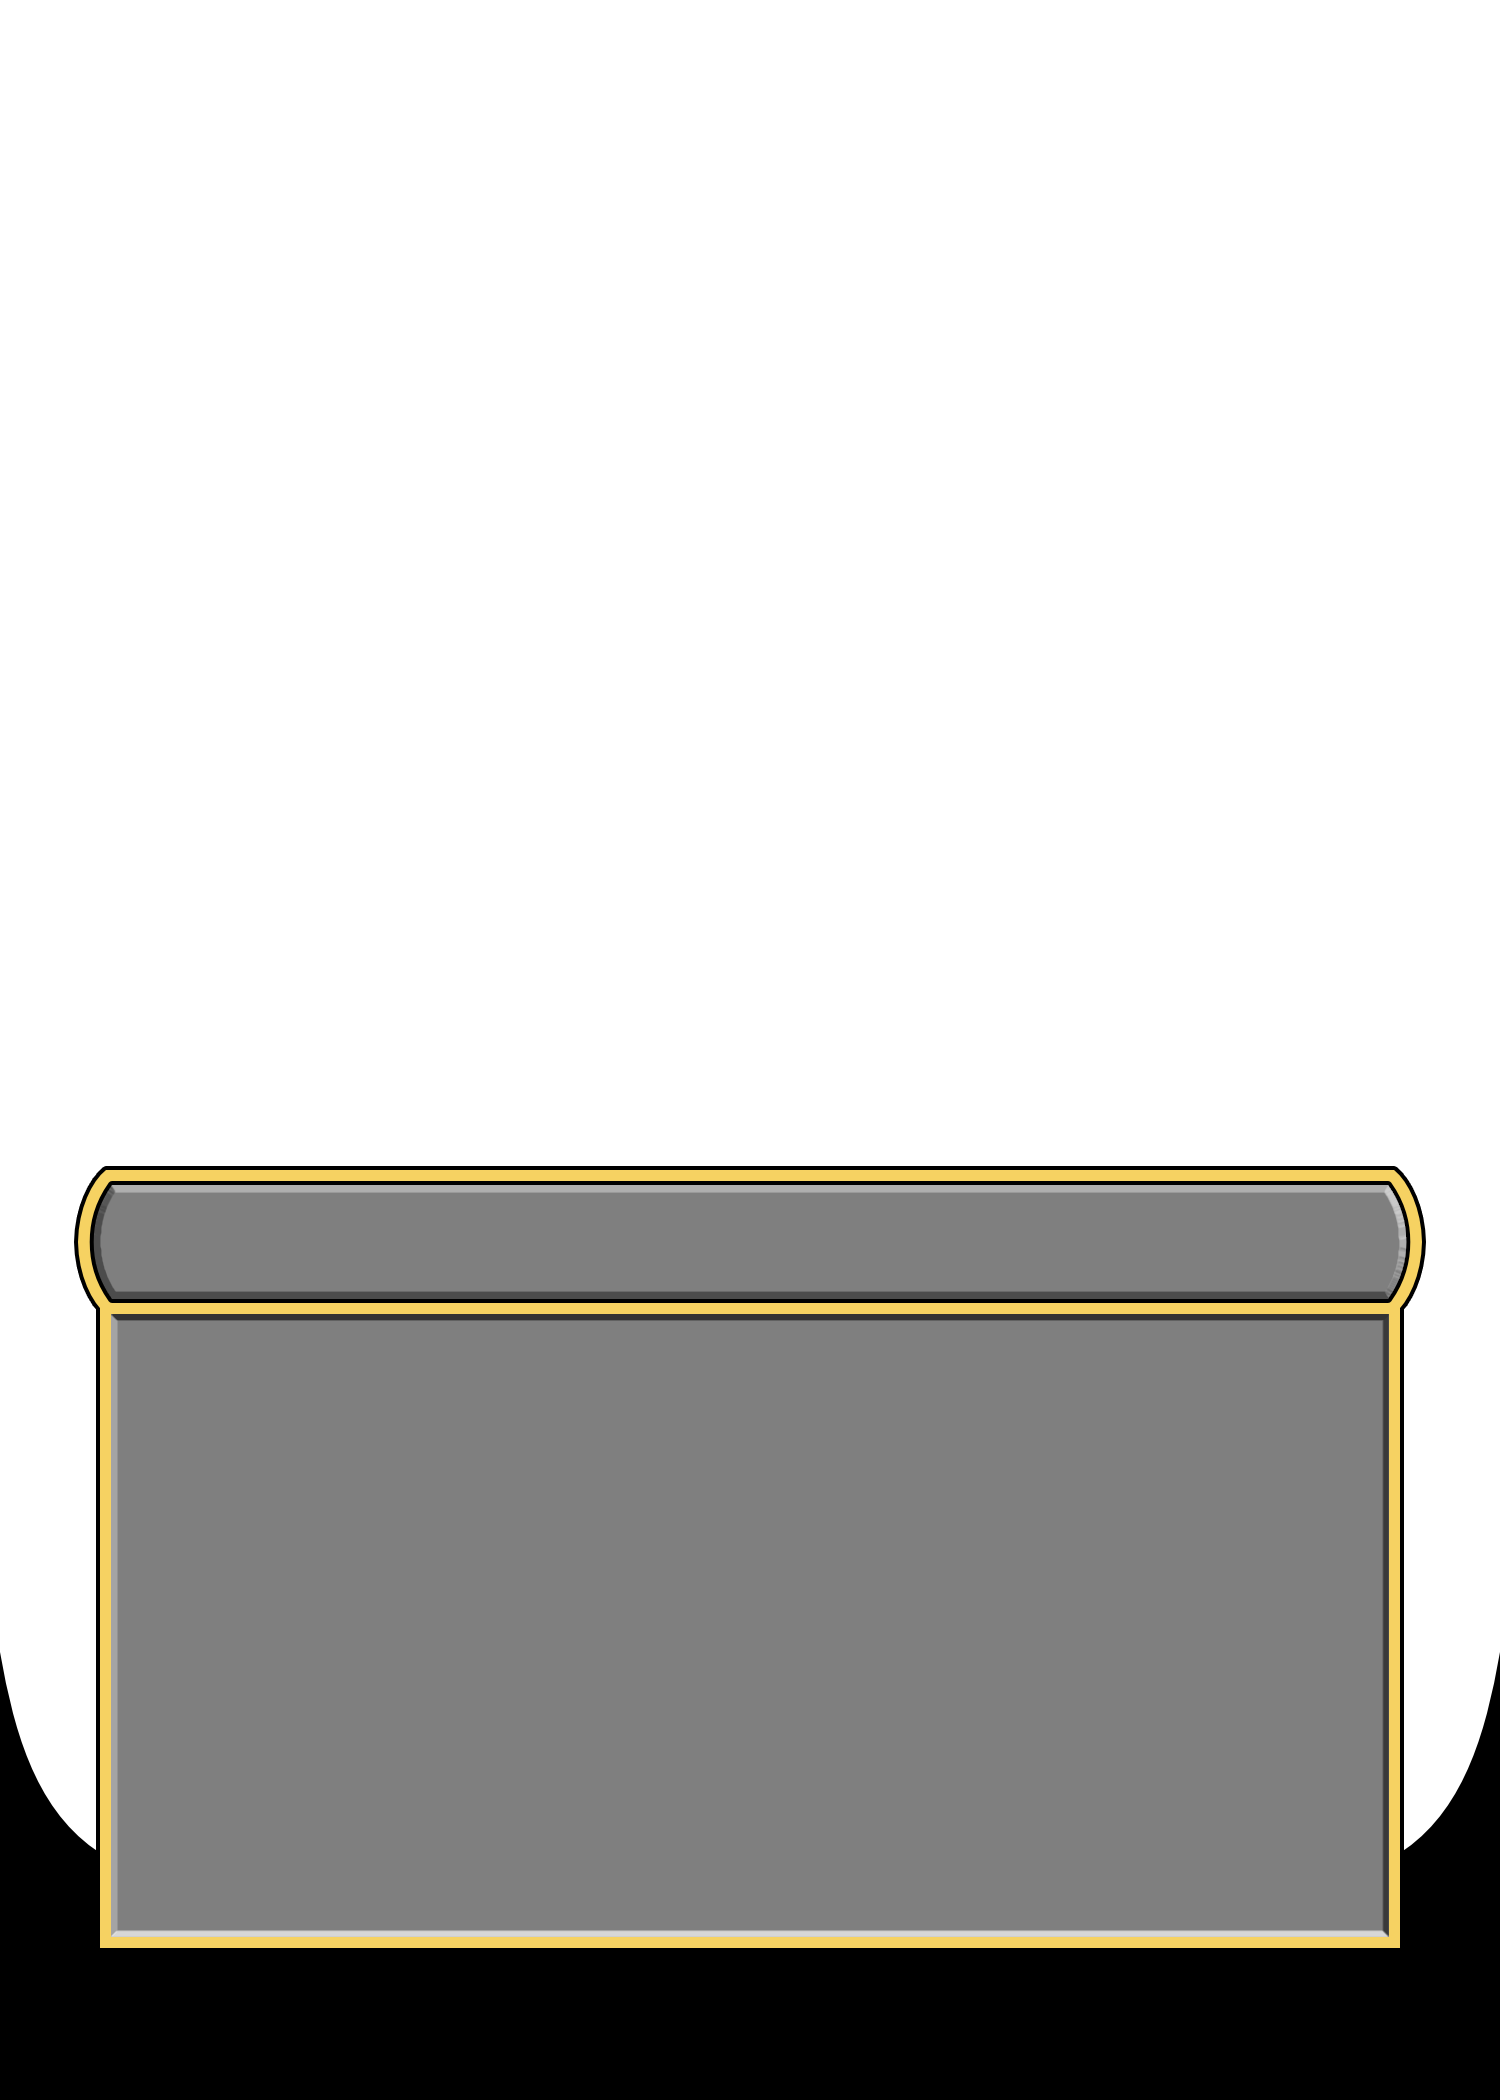
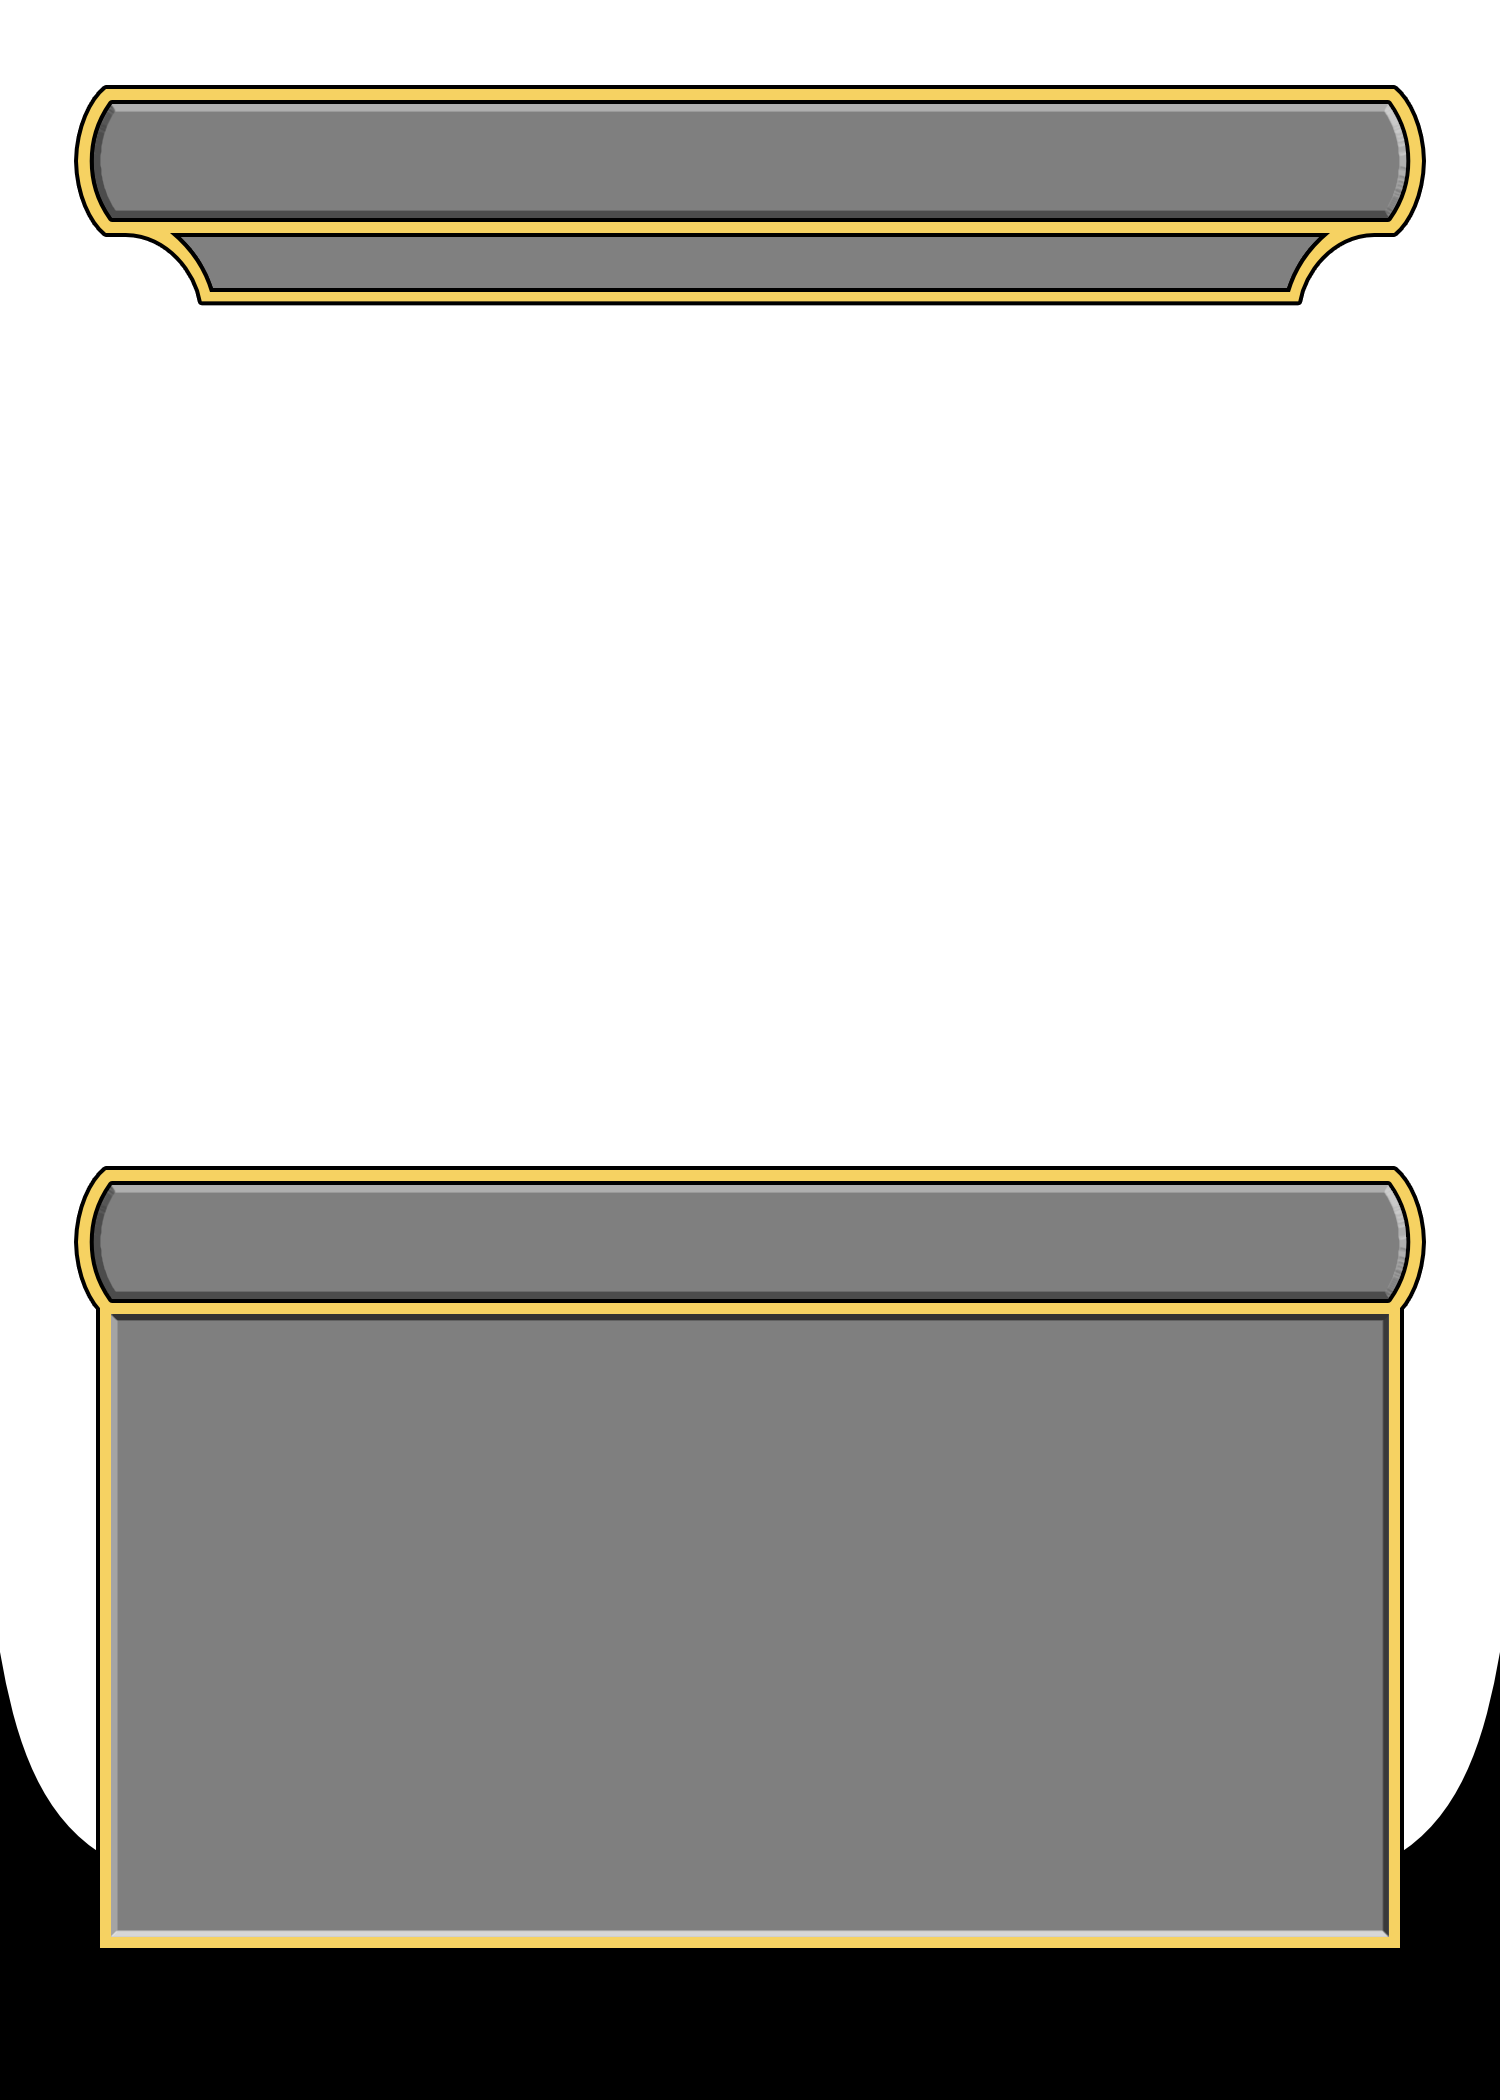
Basic Frames Updated

Changed region(s): [[0.0307, 0.031, 0.9507, 0.1548]]

diff --git a/index.html b/index.html
@@ -52,10 +52,10 @@ function updateFrameColor() {
  } else {
   cardColor = colors.toUpperCase();
  }
+
  if (document.querySelector("styler :checked").getAttribute("value") == "0") {
-  document.querySelector("#pdback").style.backgroundImage = 'url("data/images/m15/PT/' + cardColor + '.png")';
-  document.querySelector("border").style.backgroundImage = 'url("data/images/m15/Basic/' + cardColor + '.png")';
-  document.querySelector("titl").style.backgroundImage = "none";
+  document.querySelector("#pdback").style.backgroundImage = 'url("https://raw.githubusercontent.com/danielrwallentine/Card-Summoner/refs/heads/master/data/images/m15/PT/' + cardColor + '.png")';
+  document.querySelector("border").style.backgroundImage = 'url("https://raw.githubusercontent.com/danielrwallentine/Card-Summoner/refs/heads/master/data/images/m15/Basic/' + cardColor + '.png")';
   document.querySelector("#cardName").style.color = "black";
   document.querySelector("#nickname").style.color = "transparent";
   document.querySelector("#typeLine").style.color = "black";
@@ -63,14 +63,12 @@ function updateFrameColor() {
   document.querySelector("#pd").style.color = "black";
   color_state = 0;
  } else if (document.querySelector("styler :checked").getAttribute("value") == "1") {
-  document.querySelector("#pdback").style.backgroundImage = 'url("https://raw.githubusercontent.com/joshbirnholz/cardconjurer/refs/heads/master/data/images/cardImages/m15/m15NicknamePT' + cardColor + '.png")';
-  document.querySelector("border").style.backgroundImage = 'url("https://raw.githubusercontent.com/joshbirnholz/cardconjurer/refs/heads/master/data/images/cardImages/m15/genericShowcase/m15GenericShowcaseFrame' + cardColor + '.png")';
-  document.querySelector("titl").style.backgroundImage = "none";
+  document.querySelector("#pdback").style.backgroundImage = 'url("https://raw.githubusercontent.com/danielrwallentine/Card-Summoner/refs/heads/master/data/images/m15/PT/' + cardColor + '.png")';
+  document.querySelector("border").style.backgroundImage = 'url("https://raw.githubusercontent.com/danielrwallentine/Card-Summoner/refs/heads/master/data/images/m15/Showcase/' + cardColor + '.png")';
   document.querySelector("#nickname").style.color = "transparent";
  } else if (document.querySelector("styler :checked").getAttribute("value") == "2") {
-  document.querySelector("#pdback").style.backgroundImage = 'url("https://raw.githubusercontent.com/joshbirnholz/cardconjurer/refs/heads/master/data/images/cardImages/m15/m15NicknamePT' + cardColor + '.png")';
-  document.querySelector("border").style.backgroundImage = 'url("https://raw.githubusercontent.com/joshbirnholz/cardconjurer/refs/heads/master/data/images/cardImages/m15/m15NicknameFrame' + cardColor + '.png")';
-  document.querySelector("titl").style.backgroundImage = 'url("https://raw.githubusercontent.com/joshbirnholz/cardconjurer/refs/heads/master/data/images/cardImages/m15/m15NicknameTitle' + cardColor + '.png")';
+  document.querySelector("#pdback").style.backgroundImage = 'url("https://raw.githubusercontent.com/danielrwallentine/Card-Summoner/refs/heads/master/data/images/m15/PT/' + cardColor + '.png")';
+  document.querySelector("border").style.backgroundImage = 'url("https://raw.githubusercontent.com/danielrwallentine/Card-Summoner/refs/heads/master/data/images/m15/Nickname/' + cardColor + '.png")';
   document.querySelector("#cardName").style.color = "white";
   document.querySelector("#nickname").style.color = "white";
   document.querySelector("#typeLine").style.color = "white";
@@ -78,7 +76,6 @@ function updateFrameColor() {
   document.querySelector("#pd").style.color = "white";
   color_state = 3;
  } else if (document.querySelector("styler :checked").getAttribute("value") == "3") {
-  document.querySelector("crownbd").style.display = "none";
   document.querySelector("#pdback").style.display = "none";
  }
 }
@@ -90,19 +87,15 @@ function updateBorderByType(typeLine) {
   document.querySelector("#pdback").hidden = true;
  }
  if (typeLine.innerHTML.includes("Legendary")) {
-  document.querySelector("crownbd").hidden = false;
   document.querySelector("titl").hidden = true;
  } else if (document.querySelector("styler :checked").getAttribute("value") == "2") {
   document.querySelector("titl").hidden = false;
-  document.querySelector("crownbd").hidden = true;
  } else {
-  document.querySelector("crownbd").hidden = true;
   document.querySelector("titl").hidden = true;
  }
 }
 
 function custom() {
- document.querySelector("crownbd").style.display = "block";
  document.querySelector("#pdback").style.display = "block";
  updateFrameColor()
  updateBorderByType(document.querySelector("#typeLine"))
@@ -254,56 +247,7 @@ function indtast(key) {
     background-position: center;
     background-repeat: no-repeat;
     background-size: cover;
-    background-image:url("https://raw.githubusercontent.com/joshbirnholz/cardconjurer/refs/heads/master/data/images/cardImages/m15/m15FrameA.png");
-  }
-  titl {
-    position:absolute;
-    top:20px;
-    left:18px;
-    display:block;
-    height:56px;
-    width:342px;
-    background-position: center;
-    background-repeat: no-repeat;
-    background-size: cover;
-    background-image:url("https://raw.githubusercontent.com/joshbirnholz/cardconjurer/refs/heads/master/data/images/cardImages/m15/m15NicknameTitleA.png");
-  }
-  crownbd {
-    display:block;
-    position:absolute;
-    border-radius:15px;
-    top:0px;
-    left:0px;
-    height:527px;
-    width:378px;
-    background-position: center;
-    background-repeat: no-repeat;
-    background-size: cover;
-    background-image:url("https://raw.githubusercontent.com/joshbirnholz/cardconjurer/refs/heads/master/data/images/cardImages/m15/m15MaskBorderSliverCrown.png");
-  }
-  crown {
-    display:block;
-    position:absolute;
-    top:9px;
-    left:10px;
-    height:88.48px;
-    width:358px;
-    background-position: center;
-    background-repeat: no-repeat;
-    background-size: cover;
-    background-image:url("https://raw.githubusercontent.com/joshbirnholz/cardconjurer/refs/heads/master/data/images/cardImages/m15/m15CrownA.png");
-  }
-  crownout {
-    display:block;
-    position:absolute;
-    top:8px;
-    left:11.75px;
-    height:56px;
-    width:355px;
-    background-position: center;
-    background-repeat: no-repeat;
-    background-size: cover;
-    background-image:url("https://raw.githubusercontent.com/joshbirnholz/cardconjurer/refs/heads/master/data/images/cardImages/m15/m15CrownFloatingOutline.png");
+    background-image:url("https://raw.githubusercontent.com/danielrwallentine/Card-Summoner/refs/heads/master/data/images/m15/Basic/A.png");
   }
   collection {
     display:block;
@@ -528,16 +472,11 @@ function indtast(key) {
   <div id="ach">
     <background>
       <border>
-        <titl hidden></titl>
-        <crownbd hidden>
-          <crown></crown>
-          <crownout></crownout>
-        </crownbd>
         <box id="cardName" contenteditable="true" placeholder="Card Name"></box>
         <box id="nickname" contenteditable="true" placeholder="True Name"></box>
         <box id="cardCost"></box>
         <box id="pictureFrame" onclick="loadImage();"></box>
-        <box id="typeLine" onblur="updateBorderByType(this);" contenteditable="true" placeholder="Card Type">Creature ー Human</box>
+        <box id="typeLine" onblur="updateBorderByType(this);" contenteditable="true" placeholder="Card Type">Creature - Human</box>
         <svg id="icon" fill="orange" stroke="black" stroke-width="40" xmlns="http://www.w3.org/2000/svg" version="1.0" viewBox="600 400 1000 900"><path d="M1000 552.7c-100.7 2.7-201.4 18.7-232.6 36.8-5.9 3.5-6.8 6.3-6.1 20.3.8 17.1 3.7 32 22.6 115.7 12 53.2 21 99.4 26.1 134.2 3.3 22.6 7 55.2 7 61.8 0 3.3.6 4.5 3.5 7l3.5 3 .6 18c.7 19.2 0 23.3-3.6 24.2-1.8.5-2 1.4-2 8.2 0 11.6-1.9 34.2-4 48.1-1 6.8-1.8 12.6-1.7 12.7.5.4 56.1 8.3 72.2 10.2 48.4 5.8 91.3 8.3 143.5 8.3 65.9.1 111.4-3.5 183.5-14.7 31.7-4.9 78.6-13.4 79.8-14.5.4-.4-.7-5.8-2.6-12.1-4-13.2-7.1-26.4-9.6-41-1.5-9.1-2-10.4-3.9-10.7-1.1-.2-2.5-.9-3-1.5-1.6-2-3.1-11.1-4.4-26.4l-1.2-14.6 2.7-2.3 2.7-2.3.4-40.3c.7-70.1 6.1-115.9 27-230.8 9.5-52 10-58.2 5.2-61.3-5.8-3.8-30.9-11.1-53.6-15.6-54.7-10.8-122.4-17.8-194-20.1-28.8-.9-35.1-1-58-.3m-39.7 310.7c18.4 5.5 29.6 12.2 42.7 25.6 17.3 17.6 25.3 37.3 25.4 62 0 24.7-8 44.6-25.3 62.3-29.3 30.3-74 37.7-112.2 18.7-54.1-26.8-67.7-97.2-27.3-140.8 14.6-15.8 30.2-24.7 52.5-29.7 4.5-1 10.7-1.4 20.9-1.1 12.1.3 16 .8 23.3 3m221.5-1.8c9.8 2 23.4 7.1 30.7 11.5 25.8 15.4 42.7 42.6 45 72.1 1.3 16.4-3.4 36.2-12.3 51.3-5.6 9.6-21.9 26.4-30.4 31.3-19.4 11.4-40 16.2-60.7 14.2-60.4-6-99.3-64-80.2-119.7 4.1-12 10.5-22.5 19.4-31.9 14.8-15.7 29.9-24.1 51.8-28.9 8.9-1.9 27.3-1.9 36.7.1m-122.5 79.3c4.7 3.2 4.7 3.3 4.7 8.9 0 6.4-.6 7.6-3.6 8.6-1.4.4-2.7-.1-4.4-1.9-3.8-4.1-8.2-4.3-14.2-.6-7.2 4.5-8.8 3.7-8.8-4.3 0-7 .8-8.6 6.5-12.1 5.7-3.6 13.2-3.1 19.8 1.4"/><path d="M924.2 879c-19.6 2.7-38.5 13.4-49.7 28.2-20.5 27-20.3 62.8.5 88.5 20.3 25.1 54.7 34.5 85.5 23.6 23.2-8.3 40.9-27.5 47.1-51.3 2.3-8.7 2.3-25.3 0-34-9.5-36-46-60.1-83.4-55m228.5.1c-19.1 2.6-37.9 13.2-49.2 27.9-36 46.8-5 112.6 55 116.7 35.9 2.4 68.2-20.2 77.6-54.4 2.7-9.8 2.9-24.7.5-34.8-6.1-25.5-28.4-47.5-54.6-53.8-8.6-2.1-20.9-2.8-29.3-1.6m120.6 49.5c-.7 1.9.4 24.3 1.5 29.4.8 3.4.9 3.5 6.3 3.8 7.5.4 8.5-.8 6.9-8.2-.6-3.1-1.4-10.2-1.8-15.8l-.7-10.3-5.8-.3c-4.6-.2-5.8 0-6.4 1.4m-466.6 6.1c-.2.5-.2 8.1.1 17.1.5 18.3.2 17.7 8.8 17 3.7-.3 3.9-.5 4.6-4.3.9-5.2-.2-27.6-1.5-29.3-1-1.3-11.3-1.7-12-.5m-150.5 107.1c-7 2.5-10.9 6.3-12 11.9-1.3 5.9-.1 9.8 4.5 14.6 5.8 6 14.3 11.4 29.7 18.8 52.5 25.1 145.7 46.7 243.6 56.4 67.1 6.6 147.8 7.3 220 2 116-8.7 222.9-30.7 267.9-55.2 14.7-8 20.6-15 19.4-22.9-1.6-10.7-8.5-17-22.3-20.5-7.7-2-37.7-1.7-56 .5-8 .9-29.6 3.9-48 6.6-98.7 14.5-119.3 17.1-165 21-81.5 6.9-150.8 6.3-233.5-2-40.7-4.1-87-11-145.5-21.5-48-8.7-61.6-10.5-80.5-11.1-15-.4-17.6-.3-22.3 1.4"/></svg>
         <box id="statBox" onblur="" contenteditable="true" placeholder="Card Stats"></box>
         <box id="pdback">
